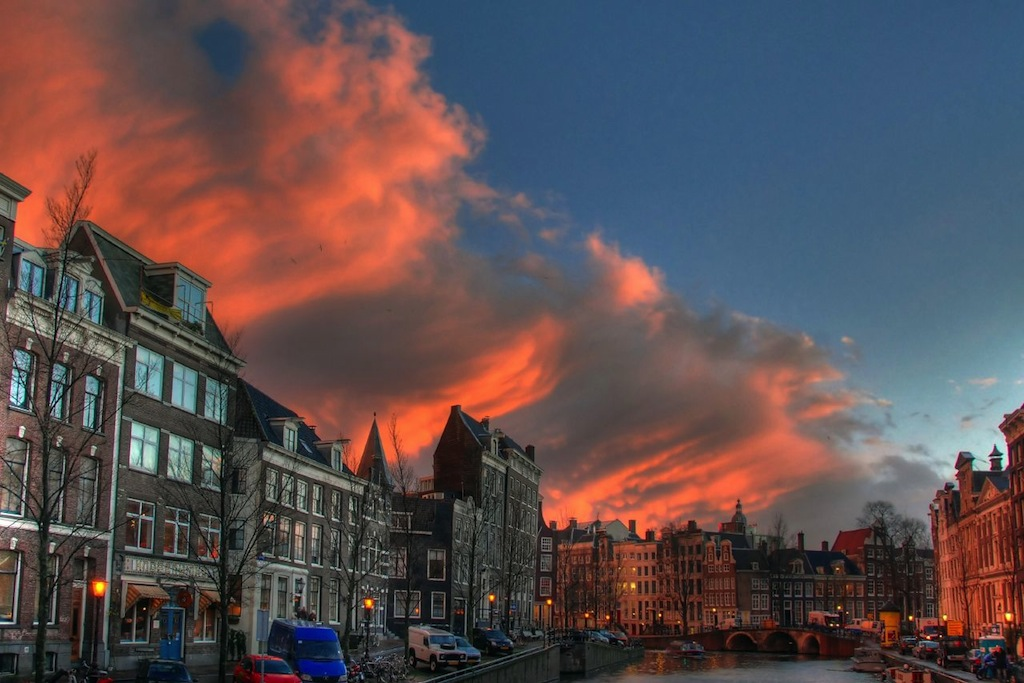
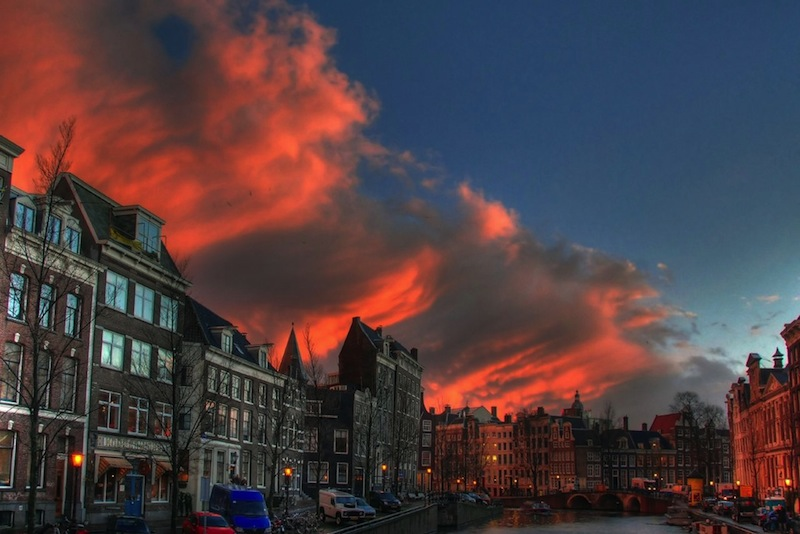
Images optimisation

diff --git a/examples/fade.html b/examples/fade.html
@@ -19,18 +19,18 @@
     <div class="wrapper">
 
       <ul class="slider">
-        <li style="opacity:1"><img src="medias/sunset/1.jpg" width="1024" height="683"></li>
-        <li><img src="medias/sunset/2.jpg" width="1024" height="683"></li>
-        <li><img src="medias/sunset/3.jpg" width="1024" height="683"></li>
-        <li><img src="medias/sunset/4.jpg" width="1024" height="683"></li>
-        <li><img src="medias/sunset/5.jpg" width="1024" height="683"></li>
-        <li><img src="medias/sunset/6.jpg" width="1024" height="683"></li>
-        <li><img src="medias/sunset/7.jpg" width="1024" height="683"></li>
-        <li><img src="medias/sunset/8.jpg" width="1024" height="683"></li>
-        <li><img src="medias/sunset/9.jpg" width="1024" height="683"></li>
-        <li><img src="medias/sunset/10.jpg" width="1024" height="683"></li>
-        <li><img src="medias/sunset/11.jpg" width="1024" height="683"></li>
-        <li><img src="medias/sunset/12.jpg" width="1024" height="683"></li>
+        <li style="opacity:1"><img src="medias/sunset/1.jpg" width="800" height="534"></li>
+        <li><img src="medias/sunset/2.jpg" width="800" height="534"></li>
+        <li><img src="medias/sunset/3.jpg" width="800" height="534"></li>
+        <li><img src="medias/sunset/4.jpg" width="800" height="534"></li>
+        <li><img src="medias/sunset/5.jpg" width="800" height="534"></li>
+        <li><img src="medias/sunset/6.jpg" width="800" height="534"></li>
+        <li><img src="medias/sunset/7.jpg" width="800" height="534"></li>
+        <li><img src="medias/sunset/8.jpg" width="800" height="534"></li>
+        <li><img src="medias/sunset/9.jpg" width="800" height="534"></li>
+        <li><img src="medias/sunset/10.jpg" width="800" height="534"></li>
+        <li><img src="medias/sunset/11.jpg" width="800" height="534"></li>
+        <li><img src="medias/sunset/12.jpg" width="800" height="534"></li>
       </ul>
       <a class="button prev"><span><i>&laquo;</i></span></a>
       <a class="button next"><span><i>&raquo;</i></span></a>
